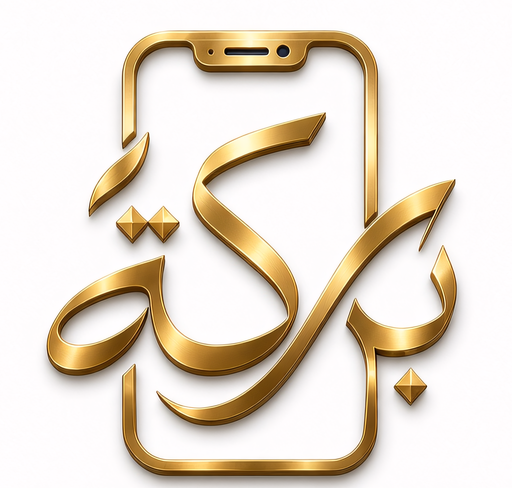
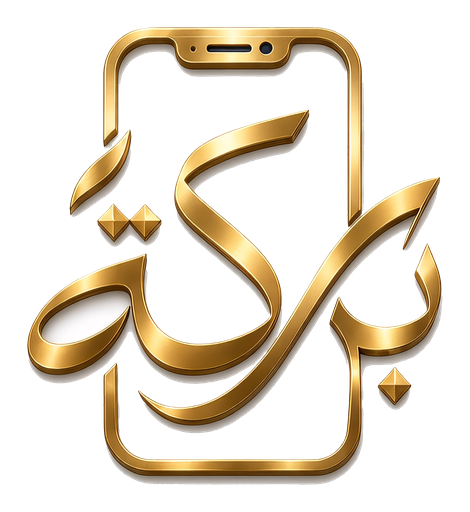
brand(pro): transparent emblem (bg knockout) + gold glow tile; compact nav labels fit 1366, full names as tooltips

diff --git a/src/components/Navbar.tsx b/src/components/Navbar.tsx
@@ -85,7 +85,7 @@ export const Navbar: React.FC = () => {
           <img
             src="/brand/baraka-emblem-256.png"
             alt="Baraka — بركة"
-            className="w-9 h-9 rounded-[10px] object-cover ring-1 ring-white/10 shadow-lg shadow-black/40"
+            className="w-9 h-9 rounded-xl object-contain ring-1 ring-amber-400/25 drop-shadow-[0_0_8px_rgba(212,160,23,0.45)]"
             draggable={false}
           />
           <span className="font-bold text-lg text-white tracking-tight group-hover:text-emerald-400 transition-colors whitespace-nowrap">
@@ -97,86 +97,89 @@ export const Navbar: React.FC = () => {
         <nav className="flex items-center gap-1 overflow-x-auto no-scrollbar">
           <button
             onClick={() => setActiveView('pos')}
-            className={`px-3 py-1.5 rounded-lg text-xs font-medium flex items-center gap-1.5 transition-all cursor-pointer whitespace-nowrap ${
+            className={`px-2.5 py-1.5 rounded-lg text-xs font-medium flex items-center gap-1 transition-all cursor-pointer whitespace-nowrap ${
               activeView === 'pos'
                 ? 'bg-emerald-600 text-white shadow-md shadow-emerald-900/40'
                 : 'text-slate-300 hover:bg-[#162030] hover:text-white'
             }`}
           >
             <ShoppingCart className="w-4 h-4" />
-            <span>{isAr ? 'نقطة البيع (F1)' : 'Caisse POS (F1)'}</span>
+            <span>{isAr ? 'الكاشير (F1)' : 'Caisse (F1)'}</span>
           </button>
 
           <button
             onClick={() => setActiveView('products')}
-            className={`px-3 py-1.5 rounded-lg text-xs font-medium flex items-center gap-1.5 transition-all cursor-pointer whitespace-nowrap ${
+            className={`px-2.5 py-1.5 rounded-lg text-xs font-medium flex items-center gap-1 transition-all cursor-pointer whitespace-nowrap ${
               activeView === 'products'
                 ? 'bg-emerald-600 text-white shadow-md shadow-emerald-900/40'
                 : 'text-slate-300 hover:bg-[#162030] hover:text-white'
             }`}
           >
             <Package className="w-4 h-4" />
-            <span>{isAr ? 'المخزون والمنتجات' : 'Stock & Produits'}</span>
+            <span>{isAr ? 'المخزون' : 'Stock'}</span>
           </button>
 
           <button
             onClick={() => setActiveView('suppliers')}
-            className={`px-3 py-1.5 rounded-lg text-xs font-medium flex items-center gap-1.5 transition-all cursor-pointer whitespace-nowrap ${
+            title={isAr ? 'الموردين والمشتريات' : 'Fournisseurs & Achats'}
+            className={`px-2.5 py-1.5 rounded-lg text-xs font-medium flex items-center gap-1 transition-all cursor-pointer whitespace-nowrap ${
               activeView === 'suppliers'
                 ? 'bg-emerald-600 text-white shadow-md shadow-emerald-900/40'
                 : 'text-slate-300 hover:bg-[#162030] hover:text-white'
             }`}
           >
             <Truck className="w-4 h-4 text-amber-400" />
-            <span>{isAr ? 'الموردين والمشتريات' : 'Fournisseurs & Achats'}</span>
+            <span>{isAr ? 'الموردون' : 'Fournisseurs'}</span>
           </button>
 
           <button
             onClick={() => setActiveView('clients')}
-            className={`px-3 py-1.5 rounded-lg text-xs font-medium flex items-center gap-1.5 transition-all cursor-pointer whitespace-nowrap ${
+            title={isAr ? 'دفتر الديون (الكريدي F9)' : 'Carnet de Dette (F9)'}
+            className={`px-2.5 py-1.5 rounded-lg text-xs font-medium flex items-center gap-1 transition-all cursor-pointer whitespace-nowrap ${
               activeView === 'clients'
                 ? 'bg-emerald-600 text-white shadow-md shadow-emerald-900/40'
                 : 'text-slate-300 hover:bg-[#162030] hover:text-white'
             }`}
           >
             <BookOpen className="w-4 h-4" />
-            <span>{isAr ? 'دفتر الديون (الكريدي F9)' : 'Carnet de Dette (F9)'}</span>
+            <span>{isAr ? 'الديون (F9)' : 'Dettes (F9)'}</span>
           </button>
 
           <button
             onClick={() => setActiveView('accounting')}
-            className={`px-3 py-1.5 rounded-lg text-xs font-medium flex items-center gap-1.5 transition-all cursor-pointer whitespace-nowrap ${
+            title={isAr ? 'الربط المحاسبي والمصالح' : 'Comptabilité SCF'}
+            className={`px-2.5 py-1.5 rounded-lg text-xs font-medium flex items-center gap-1 transition-all cursor-pointer whitespace-nowrap ${
               activeView === 'accounting'
                 ? 'bg-emerald-600 text-white shadow-md shadow-emerald-900/40'
                 : 'text-slate-300 hover:bg-[#162030] hover:text-white'
             }`}
           >
             <PieChart className="w-4 h-4 text-emerald-400" />
-            <span>{isAr ? 'الربط المحاسبي والمصالح' : 'Comptabilité SCF'}</span>
+            <span>{isAr ? 'المحاسبة' : 'Compta'}</span>
           </button>
 
           <button
             onClick={() => setActiveView('reports')}
-            className={`px-3 py-1.5 rounded-lg text-xs font-medium flex items-center gap-1.5 transition-all cursor-pointer whitespace-nowrap ${
+            className={`px-2.5 py-1.5 rounded-lg text-xs font-medium flex items-center gap-1 transition-all cursor-pointer whitespace-nowrap ${
               activeView === 'reports'
                 ? 'bg-emerald-600 text-white shadow-md shadow-emerald-900/40'
                 : 'text-slate-300 hover:bg-[#162030] hover:text-white'
             }`}
           >
             <FileText className="w-4 h-4" />
-            <span>{isAr ? 'الإغلاق الضريبي (Rapport Z)' : 'Rapport Z'}</span>
+            <span>{isAr ? 'تقرير Z' : 'Rapport Z'}</span>
           </button>
 
           <button
             onClick={() => setActiveView('license')}
-            className={`px-3 py-1.5 rounded-lg text-xs font-medium flex items-center gap-1.5 transition-all cursor-pointer whitespace-nowrap ${
+            className={`px-2.5 py-1.5 rounded-lg text-xs font-medium flex items-center gap-1 transition-all cursor-pointer whitespace-nowrap ${
               activeView === 'license'
                 ? 'bg-amber-600 text-white shadow-md shadow-amber-900/40'
                 : 'text-amber-400/90 hover:bg-[#162030] hover:text-amber-300'
             }`}
           >
             <KeyRound className="w-4 h-4 text-amber-400" />
-            <span>{isAr ? 'الرخصة (5000 دج)' : 'Licence'}</span>
+            <span>{isAr ? 'الرخصة' : 'Licence'}</span>
           </button>
 
           <button
@@ -220,7 +223,7 @@ export const Navbar: React.FC = () => {
               title={isAr ? 'الفواتير المعلقة (F5)' : 'Paniers en attente (F5)'}
             >
               <Clock className="w-3.5 h-3.5 text-amber-400" />
-              <span>{isAr ? 'المعلق' : 'En Attente'}</span>
+              <span className="hidden xl:inline">{isAr ? 'المعلق' : 'En Attente'}</span>
               <span className="w-5 h-5 rounded-full bg-amber-500/20 text-amber-300 text-[11px] font-bold flex items-center justify-center border border-amber-500/30">
                 {heldCarts.length}
               </span>

diff --git a/scripts/make-brand-assets.py b/scripts/make-brand-assets.py
@@ -1,0 +1,55 @@
+"""
+Brand asset pipeline: white-background emblem -> transparent PNGs + dark preview.
+- Flood-fill background from all 4 corners (interior whites stay: highlights are
+  disconnected from the border by gold edges; frame gaps correctly count as bg).
+- 1px erosion kills the white fringe; soft gold shadow is preserved as glow.
+- Outputs: public/brand/baraka-emblem-{512,256,64}.png + qa composite preview.
+Usage: python scripts/make-brand-assets.py
+"""
+from PIL import Image, ImageDraw, ImageFilter, ImageChops
+import os
+
+SRC = r'D:\hermes\Home\profiles\baraka-market\attachments\Baraka Logo.png'
+OUT = r'D:/Dev/baraka-market/public/brand'
+QA = r'D:/Hermes/Home/profiles/baraka-market/cache/scratch/qa'
+os.makedirs(OUT, exist_ok=True)
+os.makedirs(QA, exist_ok=True)
+
+im = Image.open(SRC).convert('RGBA')
+rgb = im.convert('RGB')
+
+# Background = near-white pixels CONNECTED to the image border.
+# (Interior whites — specular highlights — are disconnected by gold edges, so they survive.)
+white = rgb.point(lambda v: 255 if v > 195 else 0).convert('L')
+bg = white.copy()
+for seed in [(0, 0), (im.width - 1, 0), (0, im.height - 1), (im.width - 1, im.height - 1)]:
+    ImageDraw.floodfill(bg, seed, 128, thresh=0)
+bgmask = bg.point(lambda v: 255 if v == 128 else 0)
+
+alpha = bgmask.point(lambda v: 0 if v > 0 else 255)
+alpha = alpha.filter(ImageFilter.MinFilter(3))  # trim 1px halo fringe
+im.putalpha(alpha)
+
+bbox = alpha.getbbox()
+im = im.crop(bbox)
+# 6% transparent breathing room for the glow
+pad = int(max(im.size) * 0.06)
+canvas = Image.new('RGBA', (im.width + 2 * pad, im.height + 2 * pad), (0, 0, 0, 0))
+canvas.paste(im, (pad, pad), im)
+
+for s in (512, 256, 64):
+    c = canvas.copy()
+    c.thumbnail((s, s), Image.LANCZOS)
+    p = f'{OUT}/baraka-emblem-{s}.png'
+    c.save(p, optimize=True)
+    print(p, c.size, os.path.getsize(p) // 1024, 'KB')
+
+# Dark-composite proof (navbar #0b0f17 + license card gradient base)
+for name, bg, size in (('proof-nav', (11, 15, 23, 255), 72), ('proof-hero', (17, 23, 34, 255), 288)):
+    tile = canvas.copy()
+    tile.thumbnail((size, size), Image.LANCZOS)
+    comp = Image.new('RGBA', (tile.width + 40, tile.height + 40), bg)
+    comp.paste(tile, (20, 20), tile)
+    p = f'{QA}/{name}.png'
+    comp.save(p)
+    print('PROOF', p)
